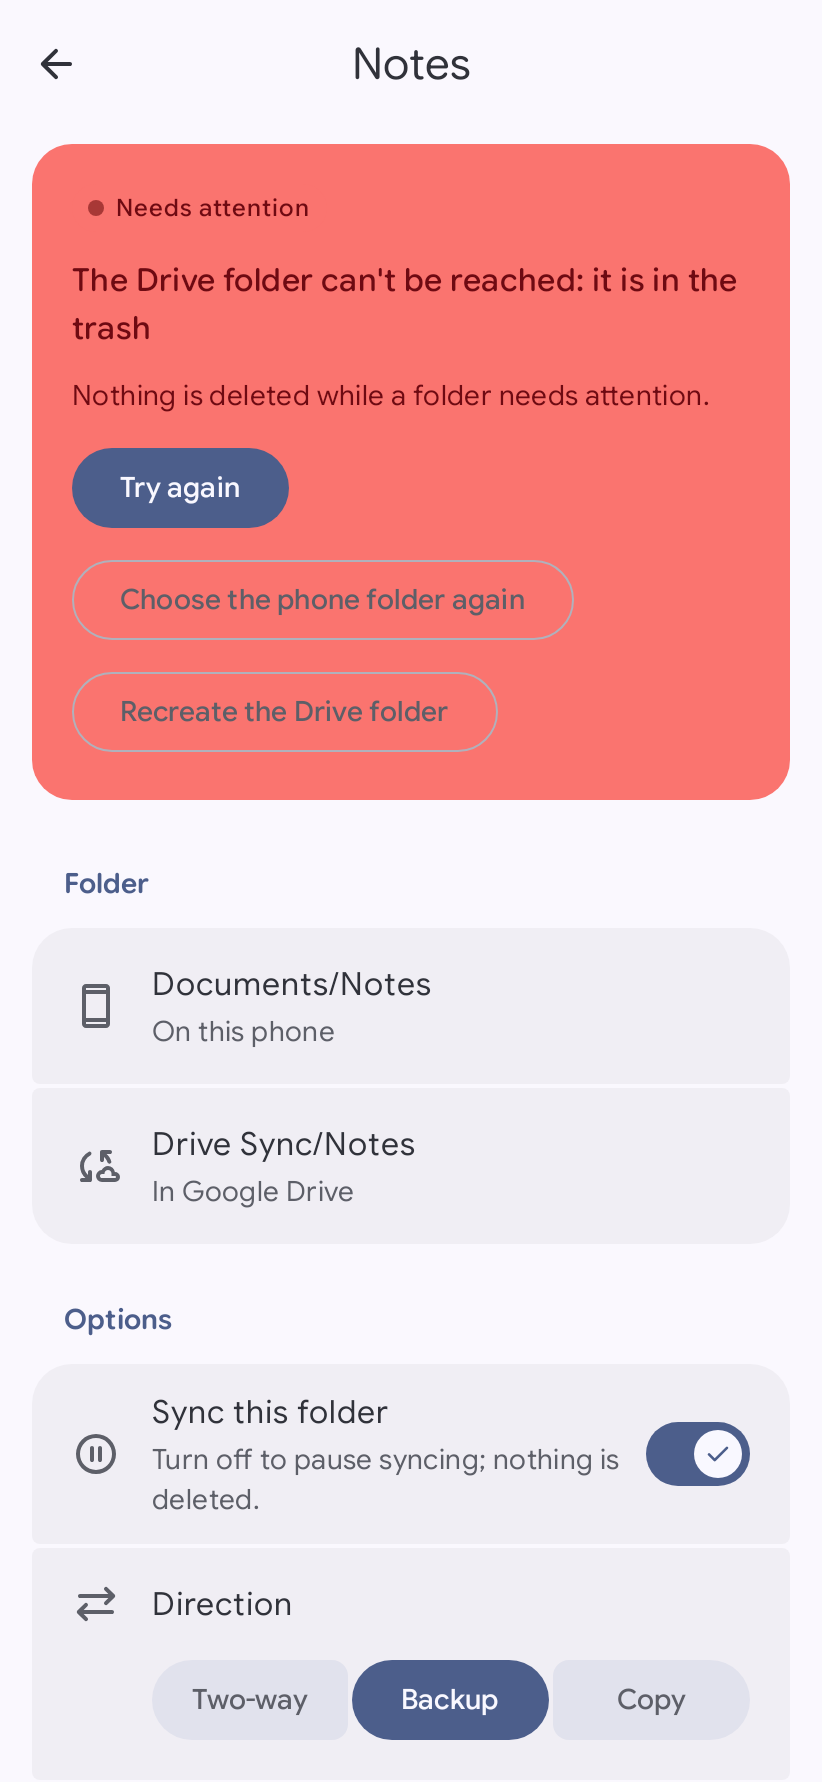
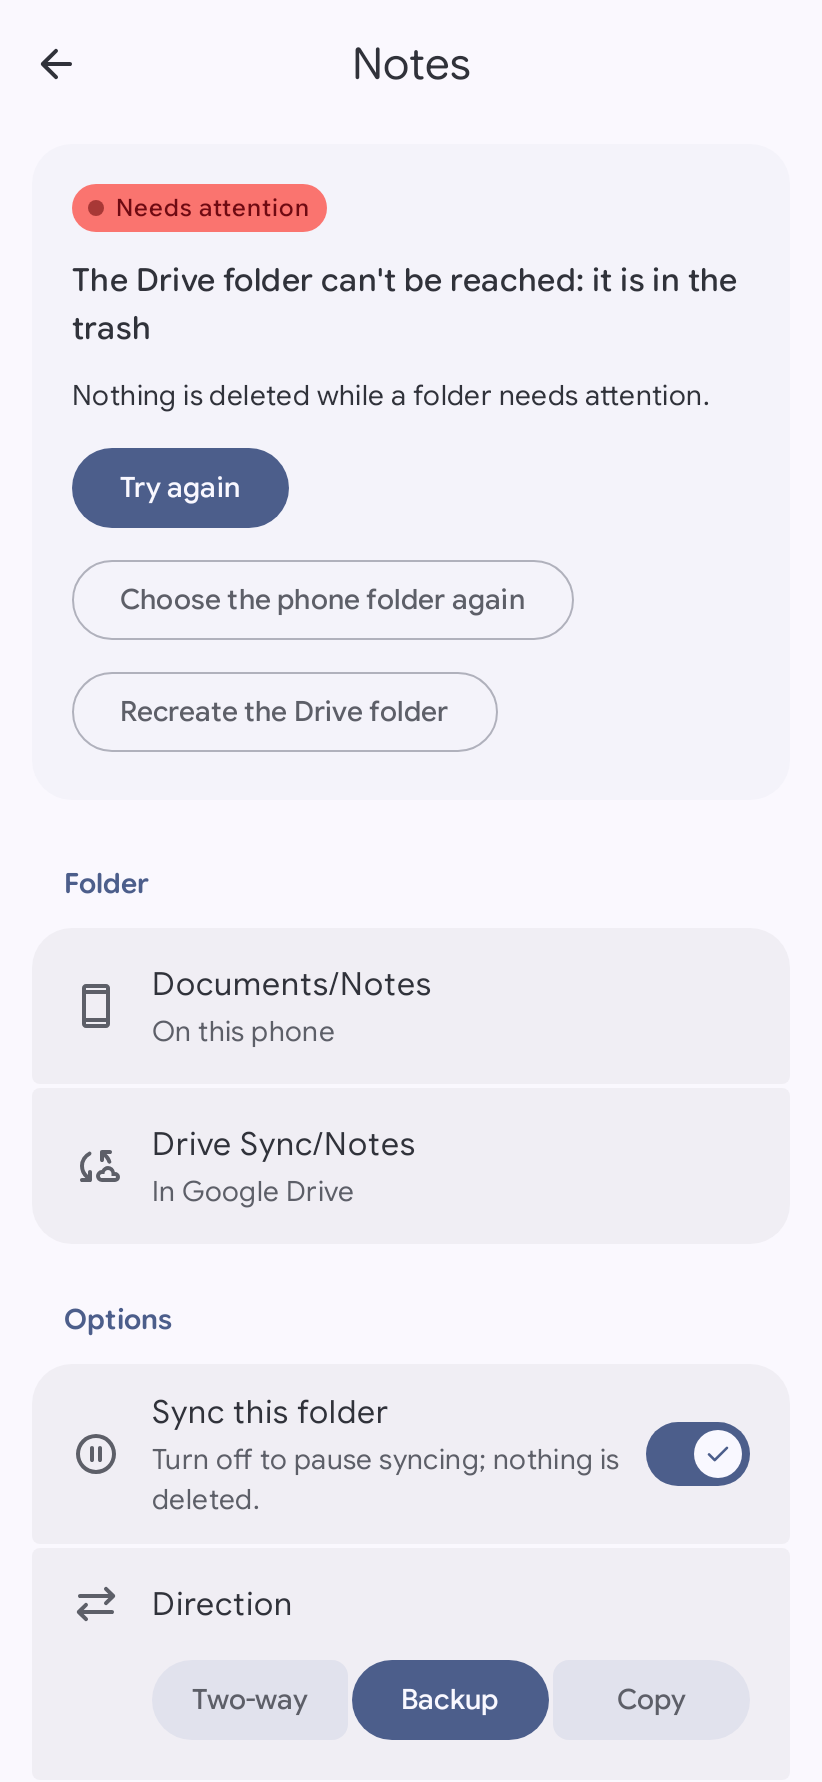
Device testing round 1 (Pixel 8) and fixes it found
- Home: read the time fresh and clamp future times ("Synced In 0 minutes")
- Pair detail: detect a revoked folder grant (Android revokes it when the
  folder is renamed or moved) and lead with "Give access again"
- Shorter unavailable-folder reasons; neutral status card so the chip shows
- docs/device-testing.md: 12 on-device tests, results and open items

diff --git a/feature-pairs/src/main/kotlin/io/github/drivesync/feature/pairs/detail/PairDetailSections.kt b/feature-pairs/src/main/kotlin/io/github/drivesync/feature/pairs/detail/PairDetailSections.kt
@@ -28,6 +28,7 @@ import androidx.compose.runtime.remember
 import androidx.compose.runtime.setValue
 import androidx.compose.ui.Alignment
 import androidx.compose.ui.Modifier
+import androidx.compose.ui.graphics.Color
 import androidx.compose.ui.res.stringResource
 import androidx.compose.ui.semantics.Role
 import io.github.drivesync.core.sync.model.ConflictPolicy
@@ -56,13 +57,8 @@ internal fun StatusSection(
     state: PairDetailUiState,
     actions: PairDetailActions,
 ) {
-    val container =
-        when (pair.state) {
-            PairState.NEEDS_ATTENTION -> MaterialTheme.colorScheme.errorContainer
-            PairState.CONFIRM_DELETES -> MaterialTheme.colorScheme.tertiaryContainer
-            else -> MaterialTheme.colorScheme.surfaceContainerLow
-        }
-    DsCard(Modifier.padding(horizontal = Tokens.pageInset, vertical = Tokens.gapSm), container = container) {
+    // A neutral card keeps the colored status chip readable; the message itself carries the color.
+    DsCard(Modifier.padding(horizontal = Tokens.pageInset, vertical = Tokens.gapSm)) {
         Column(Modifier.padding(Tokens.rowPaddingH), verticalArrangement = Arrangement.spacedBy(Tokens.gapMd)) {
             StatusChip(pair.state.label(), pair.state.tone())
             pair.detail
@@ -72,7 +68,7 @@ internal fun StatusSection(
                 }
             when (pair.state) {
                 PairState.NEEDS_ATTENTION -> {
-                    AttentionActions(actions)
+                    AttentionActions(state.accessLost, actions)
                 }
 
                 PairState.CONFIRM_DELETES -> {
@@ -95,14 +91,27 @@ internal fun StatusSection(
 }
 
 @Composable
-private fun AttentionActions(actions: PairDetailActions) {
-    Text(stringResource(R.string.detail_attention_hint), style = MaterialTheme.typography.bodyMedium)
+private fun AttentionActions(
+    accessLost: Boolean,
+    actions: PairDetailActions,
+) {
+    Text(
+        stringResource(if (accessLost) R.string.detail_access_lost_hint else R.string.detail_attention_hint),
+        style = MaterialTheme.typography.bodyMedium,
+    )
     FlowRow(
         horizontalArrangement = Arrangement.spacedBy(Tokens.gapSm),
         verticalArrangement = Arrangement.spacedBy(Tokens.gapSm),
     ) {
-        Button(onClick = actions.onSyncNow) { Text(stringResource(R.string.detail_try_again)) }
-        OutlinedButton(onClick = actions.onChooseFolderAgain) { Text(stringResource(R.string.detail_choose_folder)) }
+        if (accessLost) {
+            Button(onClick = actions.onChooseFolderAgain) { Text(stringResource(R.string.detail_give_access)) }
+            OutlinedButton(onClick = actions.onSyncNow) { Text(stringResource(R.string.detail_try_again)) }
+        } else {
+            Button(onClick = actions.onSyncNow) { Text(stringResource(R.string.detail_try_again)) }
+            OutlinedButton(
+                onClick = actions.onChooseFolderAgain,
+            ) { Text(stringResource(R.string.detail_choose_folder)) }
+        }
         OutlinedButton(onClick = actions.onRecreateDriveFolder) { Text(stringResource(R.string.detail_recreate_drive)) }
     }
 }

diff --git a/core-local-storage/src/main/kotlin/io/github/drivesync/core/localstorage/saf/SafDocumentTree.kt b/core-local-storage/src/main/kotlin/io/github/drivesync/core/localstorage/saf/SafDocumentTree.kt
@@ -25,7 +25,7 @@ class SafDocumentTree(
     private val rootId: String = DocumentsContract.getTreeDocumentId(treeUri)
 
     override fun root(): DocumentInfo =
-        guarded { query(rootId) } ?: throw TreeUnavailableException("The phone folder no longer exists")
+        guarded { query(rootId) } ?: throw TreeUnavailableException("it no longer exists")
 
     override fun query(documentId: String): DocumentInfo? =
         try {
@@ -42,7 +42,7 @@ class SafDocumentTree(
         return try {
             guarded { resolver.query(uri, PROJECTION, null, null, null) }?.use { cursor ->
                 buildList { while (cursor.moveToNext()) add(cursor.toInfo()) }
-            } ?: throw TreeUnavailableException("Listing the phone folder failed")
+            } ?: throw TreeUnavailableException("listing it failed")
         } catch (_: FileNotFoundException) {
             emptyList()
         } catch (_: IllegalArgumentException) {
@@ -127,7 +127,7 @@ class SafDocumentTree(
         try {
             block()
         } catch (e: SecurityException) {
-            throw TreeUnavailableException("Access to the phone folder was lost", e)
+            throw TreeUnavailableException("the app no longer has access to it", e)
         }
 
     private fun Cursor.toInfo(): DocumentInfo =

diff --git a/feature-pairs/src/main/kotlin/io/github/drivesync/feature/pairs/home/HomeViewModel.kt b/feature-pairs/src/main/kotlin/io/github/drivesync/feature/pairs/home/HomeViewModel.kt
@@ -41,7 +41,10 @@ class HomeViewModel
             }
 
         val state: StateFlow<HomeUiState> =
-            combine(pairs.observePairs(), activity.observeConflicts(), running, clock) { list, conflicts, work, now ->
+            combine(pairs.observePairs(), activity.observeConflicts(), running, clock) { list, conflicts, work, _ ->
+                // The ticker only triggers a redraw each minute; the time itself is read fresh, so a sync that just
+                // finished is never "in the future".
+                val now = System.currentTimeMillis()
                 val pairRuns = work.mapNotNull { info -> SyncScheduler.pairIdOf(info.tags) }
                 val allRuns = work.any { info -> SyncScheduler.pairIdOf(info.tags) == null }
                 homeState(list, conflicts.size, pairRuns.toSet(), syncingAll = allRuns, now = now)

diff --git a/feature-pairs/src/main/kotlin/io/github/drivesync/feature/pairs/home/HomeScreen.kt b/feature-pairs/src/main/kotlin/io/github/drivesync/feature/pairs/home/HomeScreen.kt
@@ -207,7 +207,8 @@ private fun lastSynced(
     if (at == null) {
         stringResource(R.string.pair_never_synced)
     } else {
-        val ago = DateUtils.getRelativeTimeSpanString(at, now, DateUtils.MINUTE_IN_MILLIS).toString()
+        // Clamp: a timestamp slightly ahead of the screen's clock must not read "in 0 minutes".
+        val ago = DateUtils.getRelativeTimeSpanString(minOf(at, now), now, DateUtils.MINUTE_IN_MILLIS).toString()
         stringResource(R.string.pair_last_synced, ago)
     }
 

diff --git a/feature-pairs/src/main/kotlin/io/github/drivesync/feature/pairs/detail/PairDetailViewModel.kt b/feature-pairs/src/main/kotlin/io/github/drivesync/feature/pairs/detail/PairDetailViewModel.kt
@@ -68,6 +68,7 @@ class PairDetailViewModel
                         now = now,
                         removed = extra.removed,
                         error = extra.error,
+                        accessLost = !trees.isPersisted(pair.localTreeUri),
                     )
                 }
             }.stateIn(viewModelScope, SharingStarted.WhileSubscribed(STOP_TIMEOUT_MILLIS), PairDetailUiState())

diff --git a/feature-pairs/src/main/kotlin/io/github/drivesync/feature/pairs/detail/PairDetailState.kt b/feature-pairs/src/main/kotlin/io/github/drivesync/feature/pairs/detail/PairDetailState.kt
@@ -17,6 +17,8 @@ data class PairDetailUiState(
     /** Set once the pair was removed, so the screen closes. */
     val removed: Boolean = false,
     val error: String? = null,
+    /** Android revoked the folder grant (e.g. the folder was renamed or moved): only re-picking it helps. */
+    val accessLost: Boolean = false,
 )
 
 /** Callbacks of the pair detail screen. */

diff --git a/docs/device-testing.md b/docs/device-testing.md
@@ -1,0 +1,45 @@
+# Device testing (build step 7)
+
+## Round 1: 2026-11-14, Pixel 8 (Android 17, API 37), debug build
+
+The app was installed over USB, driven partly with adb (file changes, taps, screenshots, logcat) and partly by
+the owner (Google sign-in, Drive-side changes, the folder picker). The test folder was
+`Documents/DriveSyncTest` on the phone and `Drive Sync/DriveSyncTest` in Drive.
+
+| # | Test | Result |
+| --- | --- | --- |
+| 1 | Install and launch; theme from the wallpaper (Material You) | ✅ |
+| 2 | Google sign-in (Credential Manager), `drive.file` consent, Drive Sync root created | ✅ |
+| 3 | Add a folder; the first sync uploads a subfolder, two small files and a 2 MB file (resumable, chunked) | ✅ |
+| 4 | A long sync runs as a `dataSync` foreground service with a notification, then stops | ✅ |
+| 5 | Phone edit → re-upload; phone rename → **move on Drive** (no re-upload); phone delete → **Drive trash**; new file → upload | ✅ |
+| 6 | Drive rename → phone rename (detected move); Drive trash → **phone recycle folder** | ✅ |
+| 7 | A file uploaded to the folder from the Drive website is **not** seen by the app (`drive.file` scope, PRD 6.4) | ✅ as expected |
+| 8 | Conflict: the same file changed on both sides → both kept (`done (conflict 2026-11-14 03-15 Pixel 8).md`) | ✅ |
+| 9 | Sync when the app comes to the foreground (PRD 3.4) | ✅ |
+| 10 | **Phone folder renamed away → the pair pauses ("Needs attention"); nothing is trashed on Drive** (rule 1) | ✅ |
+| 11 | Recovery: "Give access again" → re-pick the folder → merge-only run → Up to date, no duplicates, no deletes | ✅ |
+| 12 | Periodic background sync: scheduled every 30 min, constraints satisfied | ✅ scheduled (see notes) |
+
+## Found and fixed
+- **"Synced In 0 minutes":** the home screen read the time from a once-a-minute ticker, so a sync that had just
+  finished looked like it was in the future. The time is now read fresh, and future times are clamped.
+- **Lost access was not obvious:** Android **revokes an app's folder grant when the folder is renamed or moved**,
+  even if it is moved back (the logs show `Permission Denial … requires that you obtain access using
+  ACTION_OPEN_DOCUMENT`). The app paused correctly, but its screen suggested "Try again". Pair detail now checks
+  the persisted grant, explains what happened, and puts **Give access again** first.
+- **Repeated error text** ("can't be read: Access to the phone folder was lost") is now a single short reason.
+- **The status chip was invisible** on the red attention card. The card is now neutral and the message
+  carries the color.
+
+## Notes and still open
+- **Notifications** were not shown because the notification permission had not been granted (the onboarding
+  "Allow" step was skipped). The app correctly posted nothing. To be re-tested with the permission on.
+- **The periodic job can't be forced early:** `cmd jobscheduler run -f -n androidx.work.systemjobscheduler
+  io.github.drivesync <id>` starts it, but WorkManager reschedules a periodic run that is not due yet
+  (`reschedule = true`). It has to be checked by letting it fire on its own.
+- **To do:**
+  - the MediaStore photo trigger (needs a pair in DCIM or Pictures);
+  - Doze and the battery-saver background delays;
+  - two phones on one folder;
+  - a release (R8) build on the device.
